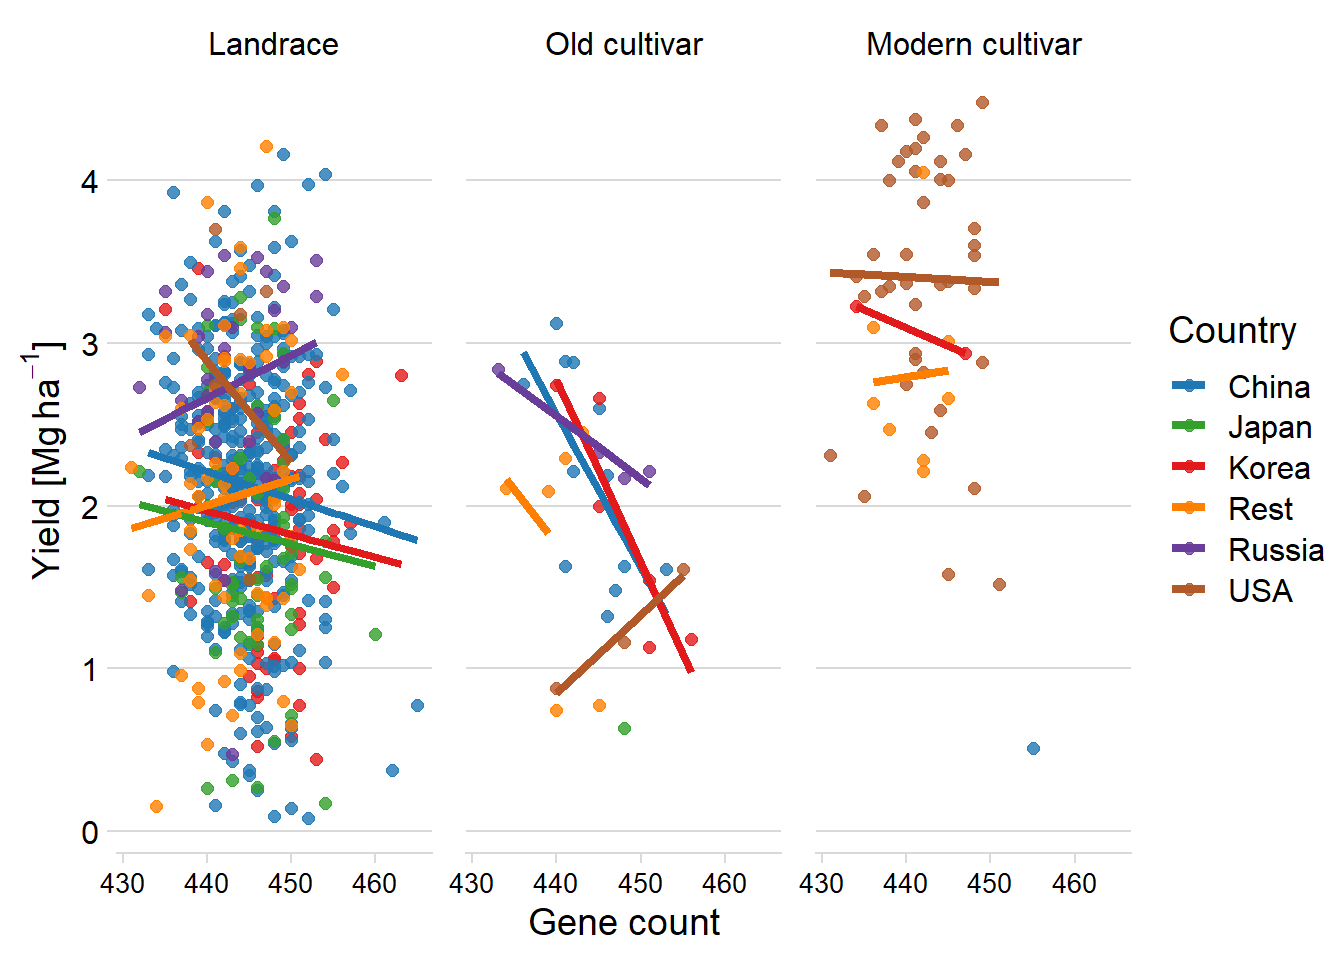
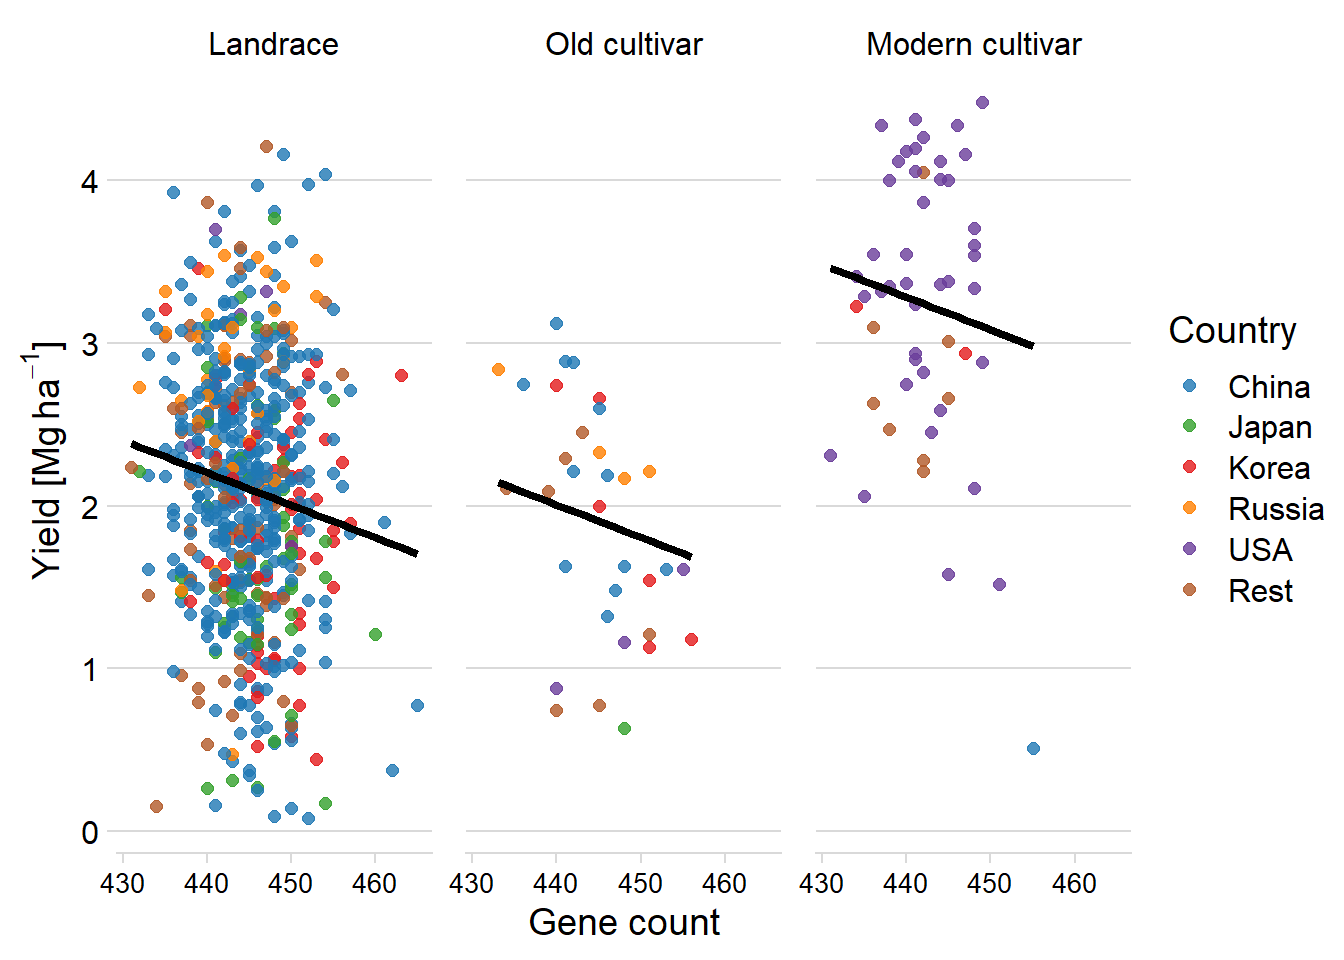
Build site.

diff --git a/docs/yield_lm_link.html b/docs/yield_lm_link.html
@@ -476,16 +476,16 @@ This reproducible <a href="http://rmarkdown.rstudio.com">R Markdown</a> analysis
 <div class="panel panel-default">
 <div class="panel-heading">
 <p class="panel-title">
-<a data-toggle="collapse" data-parent="#workflowr-checks" href="#strongRepositoryversionstrongahrefhttpsgithubcomphilippbayerRgeneanalysistreebda432c301b9937a3f854bee831741e7677c4174targetblankbda432ca"> <span class="glyphicon glyphicon-ok text-success" aria-hidden="true"></span> <strong>Repository version:</strong> <a href="https://github.com/philippbayer/R_gene_analysis/tree/bda432c301b9937a3f854bee831741e7677c4174" target="_blank">bda432c</a> </a>
+<a data-toggle="collapse" data-parent="#workflowr-checks" href="#strongRepositoryversionstrongahrefhttpsgithubcomphilippbayerRgeneanalysistree265efc1435fcc189f12177a8d3681cf9faa424ectargetblank265efc1a"> <span class="glyphicon glyphicon-ok text-success" aria-hidden="true"></span> <strong>Repository version:</strong> <a href="https://github.com/philippbayer/R_gene_analysis/tree/265efc1435fcc189f12177a8d3681cf9faa424ec" target="_blank">265efc1</a> </a>
 </p>
 </div>
[2 lines of base64/hex data omitted]
 <div class="panel-body">
 <p>
 Great! You are using Git for version control. Tracking code development and connecting the code version to the results is critical for reproducibility.
 </p>
 <p>
-The results in this page were generated with repository version <a href="https://github.com/philippbayer/R_gene_analysis/tree/bda432c301b9937a3f854bee831741e7677c4174" target="_blank">bda432c</a>. See the <em>Past versions</em> tab to see a history of the changes made to the R Markdown and HTML files.
+The results in this page were generated with repository version <a href="https://github.com/philippbayer/R_gene_analysis/tree/265efc1435fcc189f12177a8d3681cf9faa424ec" target="_blank">265efc1</a>. See the <em>Past versions</em> tab to see a history of the changes made to the R Markdown and HTML files.
 </p>
 <p>
 Note that you need to be careful to ensure that all relevant files for the analysis have been committed to Git prior to generating the results (you can use <code>wflow_publish</code> or <code>wflow_git_commit</code>). workflowr only checks the R Markdown file, but you know if there are other scripts or data files that it depends on. Below is the status of the Git repository when the results were generated:
@@ -572,6 +572,40 @@ Message
 </tr>
 </thead>
 <tbody>
+<tr>
+<td>
+Rmd
+</td>
+<td>
+<a href="https://github.com/philippbayer/R_gene_analysis/blob/265efc1435fcc189f12177a8d3681cf9faa424ec/analysis/yield_lm_link.Rmd" target="_blank">265efc1</a>
+</td>
+<td>
+Philipp Bayer
+</td>
+<td>
+2021-08-10
+</td>
+<td>
+Add a new figure
+</td>
+</tr>
+<tr>
+<td>
+html
+</td>
+<td>
+<a href="https://rawcdn.githack.com/philippbayer/R_gene_analysis/901040c963d2ad2797ca1874026f1074bc9b9c6a/docs/yield_lm_link.html" target="_blank">901040c</a>
+</td>
+<td>
+Philipp Bayer
+</td>
+<td>
+2021-08-10
+</td>
+<td>
+Build site.
+</td>
+</tr>
 <tr>
 <td>
 Rmd
@@ -1823,30 +1857,74 @@ mycol &lt;- brewer.pal(n = 12, name = &quot;Paired&quot;)[seq(2, 12, 2)]</code><
   axis.text.x = element_text(size = 10)) </code></pre>
 <p><img src="figure/yield_lm_link.Rmd/unnamed-chunk-15-1.png" width="672" style="display: block; margin: auto;" /></p>
 <p>Oh wow, that looks very similar to the lme4 results.</p>
-<pre class="r"><code>plot_model(clm_model, type = &quot;pred&quot;, terms = c(&quot;Count&quot;, &quot;Group&quot;)) +
+<p>By what percentage does the predicted yield change for each group?</p>
+<pre class="r"><code>plot_model(clm_model, type = &quot;pred&quot;, terms = c(&quot;Count&quot;, &quot;Group&quot;))$data</code></pre>
+<pre><code># Predicted values of Yield
+
+# Group = Landrace
+
+Count | Predicted | group_col |       95% CI
+--------------------------------------------
+  430 |      2.37 |  Landrace | [2.19, 2.55]
+  436 |      2.27 |  Landrace | [2.15, 2.39]
+  442 |      2.18 |  Landrace | [2.10, 2.25]
+  448 |      2.08 |  Landrace | [2.00, 2.16]
+  454 |      1.98 |  Landrace | [1.86, 2.11]
+  466 |      1.79 |  Landrace | [1.54, 2.04]
+
+# Group = Old cultivar
+
+Count | Predicted |    group_col |       95% CI
+-----------------------------------------------
+  430 |      2.15 | Old cultivar | [1.83, 2.47]
+  436 |      2.05 | Old cultivar | [1.77, 2.34]
+  442 |      1.96 | Old cultivar | [1.68, 2.23]
+  448 |      1.86 | Old cultivar | [1.59, 2.14]
+  454 |      1.77 | Old cultivar | [1.47, 2.06]
+  466 |      1.57 | Old cultivar | [1.21, 1.94]
+
+# Group = Modern cultivar
+
+Count | Predicted |       group_col |       95% CI
+--------------------------------------------------
+  430 |      3.17 | Modern cultivar | [2.72, 3.62]
+  436 |      3.07 | Modern cultivar | [2.64, 3.50]
+  442 |      2.98 | Modern cultivar | [2.55, 3.40]
+  448 |      2.88 | Modern cultivar | [2.45, 3.31]
+  454 |      2.78 | Modern cultivar | [2.34, 3.23]
+  466 |      2.59 | Modern cultivar | [2.09, 3.09]
+
+Adjusted for:
+* Country = China</code></pre>
+<pre class="r"><code>ranges_pret &lt;- list(land = c(1.79, 2.37), old = c(1.57, 2.15), modern = c(2.59, 3.17))
+sapply(ranges_pret, diff)</code></pre>
+<pre><code>  land    old modern 
+  0.58   0.58   0.58 </code></pre>
+<p>So the effect is around 0.58 per group</p>
+<pre class="r"><code>plot_model(clm_model, type = &quot;pred&quot;, terms = c(&quot;Count&quot;, &quot;Group&quot;), show.data=F) +
   theme_minimal_hgrid() +
   #scale_fill_manual(values = col_list) +
   #scale_color_manual(values = col_list) +
   xlab(&#39;NLR count&#39;) + 
   ylab((expression(paste(&#39;Yield [Mg &#39;, ha^-1, &#39;]&#39;)))) +
   theme(plot.title=element_blank())</code></pre>
-<p><img src="figure/yield_lm_link.Rmd/unnamed-chunk-16-1.png" width="672" style="display: block; margin: auto;" /></p>
+<p><img src="figure/yield_lm_link.Rmd/unnamed-chunk-18-1.png" width="672" style="display: block; margin: auto;" /></p>
 <pre class="r"><code>qqnorm(resid(clm_model))
 qqline(resid(clm_model))</code></pre>
-<p><img src="figure/yield_lm_link.Rmd/unnamed-chunk-17-1.png" width="672" style="display: block; margin: auto;" /></p>
-<pre class="r"><code>plot(resid(clm_model))</code></pre>
-<p><img src="figure/yield_lm_link.Rmd/unnamed-chunk-18-1.png" width="672" style="display: block; margin: auto;" /></p>
-<pre class="r"><code>plot_model(clm_model, show.values = TRUE, value.offset = .3, terms=c(&#39;GroupOld cultivar&#39;, &#39;Count&#39;, &#39;GroupModern cultivar&#39;))</code></pre>
 <p><img src="figure/yield_lm_link.Rmd/unnamed-chunk-19-1.png" width="672" style="display: block; margin: auto;" /></p>
+<pre class="r"><code>plot(resid(clm_model))</code></pre>
+<p><img src="figure/yield_lm_link.Rmd/unnamed-chunk-20-1.png" width="672" style="display: block; margin: auto;" /></p>
+<pre class="r"><code>plot_model(clm_model, show.values = TRUE, value.offset = .3, terms=c(&#39;GroupOld cultivar&#39;, &#39;Count&#39;, &#39;GroupModern cultivar&#39;))</code></pre>
+<p><img src="figure/yield_lm_link.Rmd/unnamed-chunk-21-1.png" width="672" style="display: block; margin: auto;" /></p>
 <p>All terms in the model:</p>
 <pre class="r"><code>plot_model(clm_model, type = &quot;std&quot;, show.values = TRUE, value.offset = .3,)</code></pre>
-<p><img src="figure/yield_lm_link.Rmd/unnamed-chunk-20-1.png" width="768" style="display: block; margin: auto;" /></p>
+<p><img src="figure/yield_lm_link.Rmd/unnamed-chunk-22-1.png" width="768" style="display: block; margin: auto;" /></p>
 <p>Only groups and count:</p>
 <pre class="r"><code>plot_model(clm_model, type = &quot;std&quot;, show.values = TRUE, value.offset = .3,, terms=c(&#39;GroupOld cultivar&#39;, &#39;Count&#39;, &#39;GroupModern cultivar&#39;))</code></pre>
-<p><img src="figure/yield_lm_link.Rmd/unnamed-chunk-21-1.png" width="672" style="display: block; margin: auto;" /></p>
+<p><img src="figure/yield_lm_link.Rmd/unnamed-chunk-23-1.png" width="672" style="display: block; margin: auto;" /></p>
 <p>Only countries and count:</p>
 <pre class="r"><code>plot_model(clm_model, type = &quot;std&quot;, show.values = TRUE, value.offset = .3,, terms=c(names(clm_model$coefficients)[2], names(clm_model$coefficients)[-1:-4]))</code></pre>
-<p><img src="figure/yield_lm_link.Rmd/unnamed-chunk-22-1.png" width="768" style="display: block; margin: auto;" /></p>
+<p><img src="figure/yield_lm_link.Rmd/unnamed-chunk-24-1.png" width="768" style="display: block; margin: auto;" /></p>
 <p>Let’s plot while having no colors for the countries:</p>
 <pre class="r"><code>newdatlm &lt;-cbind(yield_country_nbs_joined_groups, pred = predict(lm_model))</code></pre>
 <pre class="r"><code>newdatlm %&gt;% mutate(
@@ -1877,7 +1955,7 @@ qqline(resid(clm_model))</code></pre>
   labs(color = &quot;Country&quot;) +
   theme(panel.spacing = unit(0.9, &quot;lines&quot;),
   axis.text.x = element_text(size = 10)) </code></pre>
-<p><img src="figure/yield_lm_link.Rmd/unnamed-chunk-24-1.png" width="672" style="display: block; margin: auto;" /></p>
+<p><img src="figure/yield_lm_link.Rmd/unnamed-chunk-26-1.png" width="672" style="display: block; margin: auto;" /></p>
 <p>Let’s use this as figure 1.</p>
 <div id="lets-nest-the-countries-and-run-one-lm-each" class="section level3">
 <h3>Let’s nest the countries and run one lm each</h3>
@@ -1906,7 +1984,7 @@ model_tibble &lt;- tibble(id = names(models), model=models)
 
 plot_models(models, m.labels = names(models), p.shape=TRUE) +
   scale_colour_manual(values = mycol)</code></pre>
-<p><img src="figure/yield_lm_link.Rmd/unnamed-chunk-25-1.png" width="672" style="display: block; margin: auto;" /></p>
+<p><img src="figure/yield_lm_link.Rmd/unnamed-chunk-27-1.png" width="672" style="display: block; margin: auto;" /></p>
 <pre class="r"><code>mymodel &lt;-  function(df) { lm(Yield ~ Count, data=df) }
 
 results &lt;- six_country_table %&gt;% nest(data = -c(Group, Country2)) %&gt;% 
@@ -1934,7 +2012,7 @@ misleading</code></pre>
   labs(color = &quot;Country&quot;) +
   theme(panel.spacing = unit(0.9, &quot;lines&quot;),
   axis.text.x = element_text(size = 10)) </code></pre>
-<p><img src="figure/yield_lm_link.Rmd/unnamed-chunk-26-1.png" width="672" style="display: block; margin: auto;" /></p>
+<p><img src="figure/yield_lm_link.Rmd/unnamed-chunk-28-1.png" width="672" style="display: block; margin: auto;" /></p>
 <pre class="r"><code>six_country_table %&gt;% filter(Country2 == &#39;China&#39;) %&gt;% 
   add_predictions(models$China) %&gt;% 
   ggplot(aes(x = Count, y = pred, color = Country2)) +
@@ -1951,7 +2029,7 @@ misleading</code></pre>
   labs(color = &quot;Country&quot;) +
   theme(panel.spacing = unit(0.9, &quot;lines&quot;),
   axis.text.x = element_text(size = 10)) </code></pre>
-<p><img src="figure/yield_lm_link.Rmd/unnamed-chunk-27-1.png" width="672" style="display: block; margin: auto;" /></p>
+<p><img src="figure/yield_lm_link.Rmd/unnamed-chunk-29-1.png" width="672" style="display: block; margin: auto;" /></p>
 <pre class="r"><code>six_country_table %&gt;% filter(Country2 == &#39;USA&#39;) %&gt;% 
   add_predictions(models$USA) %&gt;% 
   ggplot(aes(x = Count, y = pred, color = Country2)) +
@@ -1968,10 +2046,10 @@ misleading</code></pre>
   labs(color = &quot;Country&quot;) +
   theme(panel.spacing = unit(0.9, &quot;lines&quot;),
   axis.text.x = element_text(size = 10)) </code></pre>
-<p><img src="figure/yield_lm_link.Rmd/unnamed-chunk-28-1.png" width="672" style="display: block; margin: auto;" /></p>
+<p><img src="figure/yield_lm_link.Rmd/unnamed-chunk-30-1.png" width="672" style="display: block; margin: auto;" /></p>
 <pre class="r"><code>single_model &lt;- lm(Yield ~ Count+Group, data = six_country_table)</code></pre>
 <pre class="r"><code>plot_model(single_model, show.values = TRUE,)</code></pre>
-<p><img src="figure/yield_lm_link.Rmd/unnamed-chunk-30-1.png" width="672" style="display: block; margin: auto;" /></p>
+<p><img src="figure/yield_lm_link.Rmd/unnamed-chunk-32-1.png" width="672" style="display: block; margin: auto;" /></p>
 <pre class="r"><code>six_country_table %&gt;% 
   add_predictions(single_model) %&gt;% 
   ggplot(aes(x = Count, y = pred)) +
@@ -1988,7 +2066,7 @@ misleading</code></pre>
   labs(color = &quot;Country&quot;) +
   theme(panel.spacing = unit(0.9, &quot;lines&quot;),
   axis.text.x = element_text(size = 10)) </code></pre>
-<p><img src="figure/yield_lm_link.Rmd/unnamed-chunk-31-1.png" width="672" style="display: block; margin: auto;" /></p>
+<p><img src="figure/yield_lm_link.Rmd/unnamed-chunk-33-1.png" width="672" style="display: block; margin: auto;" /></p>
 </div>
 <div id="finally-lets-make-one-model-per-breeding-group" class="section level3">
 <h3>FINALLY, let’s make one model per breeding group:</h3>
@@ -2014,10 +2092,10 @@ results &lt;- six_country_table %&gt;% nest(data = -c(Group)) %&gt;%
   labs(color = &quot;Country&quot;) +
   theme(panel.spacing = unit(0.9, &quot;lines&quot;),
   axis.text.x = element_text(size = 10)) </code></pre>
-<p><img src="figure/yield_lm_link.Rmd/unnamed-chunk-33-1.png" width="672" style="display: block; margin: auto;" /></p>
+<p><img src="figure/yield_lm_link.Rmd/unnamed-chunk-35-1.png" width="672" style="display: block; margin: auto;" /></p>
 <pre class="r"><code>plot_models(results$model, m.labels = results$Group, p.shape=TRUE) +
   scale_colour_manual(values = mycol)</code></pre>
-<p><img src="figure/yield_lm_link.Rmd/unnamed-chunk-34-1.png" width="672" style="display: block; margin: auto;" /></p>
+<p><img src="figure/yield_lm_link.Rmd/unnamed-chunk-36-1.png" width="672" style="display: block; margin: auto;" /></p>
 <p>As a last check - what happens if I remove outliers from the moderns, do I then get an association?</p>
 <pre class="r"><code>results &lt;- six_country_table %&gt;% filter(!(Group == &#39;Modern cultivar&#39; &amp; Yield &lt; 2)) %&gt;% 
   nest(data = -c(Group)) %&gt;% 
@@ -2042,10 +2120,10 @@ results %&gt;%
   labs(color = &quot;Country&quot;) +
   theme(panel.spacing = unit(0.9, &quot;lines&quot;),
   axis.text.x = element_text(size = 10)) </code></pre>
-<p><img src="figure/yield_lm_link.Rmd/unnamed-chunk-35-1.png" width="672" style="display: block; margin: auto;" /></p>
+<p><img src="figure/yield_lm_link.Rmd/unnamed-chunk-37-1.png" width="672" style="display: block; margin: auto;" /></p>
 <pre class="r"><code>plot_models(results$model, m.labels = results$Group, p.shape=TRUE) +
   scale_colour_manual(values = mycol)</code></pre>
-<p><img src="figure/yield_lm_link.Rmd/unnamed-chunk-36-1.png" width="672" style="display: block; margin: auto;" /></p>
+<p><img src="figure/yield_lm_link.Rmd/unnamed-chunk-38-1.png" width="672" style="display: block; margin: auto;" /></p>
 <pre class="r"><code>results &lt;- six_country_table %&gt;% filter(Group == &#39;Modern cultivar&#39; &amp; Yield &gt;2) %&gt;% 
   nest(data = -c(Group)) %&gt;% 
   mutate(model = map(data, mymodel)) %&gt;% 
@@ -2069,7 +2147,7 @@ results %&gt;%
   labs(color = &quot;Country&quot;) +
   theme(panel.spacing = unit(0.9, &quot;lines&quot;),
   axis.text.x = element_text(size = 10))</code></pre>
-<p><img src="figure/yield_lm_link.Rmd/unnamed-chunk-37-1.png" width="672" style="display: block; margin: auto;" /></p>
+<p><img src="figure/yield_lm_link.Rmd/unnamed-chunk-39-1.png" width="672" style="display: block; margin: auto;" /></p>
 </div>
 </div>
 <div id="protein-1" class="section level2">
@@ -4924,7 +5002,7 @@ R<sup>2</sup> / R<sup>2</sup> adjusted
   labs(color = &quot;Country&quot;) +
   theme(panel.spacing = unit(0.9, &quot;lines&quot;),
   axis.text.x = element_text(size = 10))</code></pre>
-<p><img src="figure/yield_lm_link.Rmd/unnamed-chunk-52-1.png" width="672" style="display: block; margin: auto;" /></p>
+<p><img src="figure/yield_lm_link.Rmd/unnamed-chunk-54-1.png" width="672" style="display: block; margin: auto;" /></p>
 </div>
 <div id="continents-not-countries" class="section level2">
 <h2>Continents, not countries</h2>
@@ -4983,7 +5061,7 @@ newdat &lt;- cbind(yield_country_nbs_joined_groups_nonacont, pred = predict(clm)
   labs(color = &quot;Continent&quot;) +
   theme(panel.spacing = unit(0.9, &quot;lines&quot;),
   axis.text.x = element_text(size = 10))</code></pre>
-<p><img src="figure/yield_lm_link.Rmd/unnamed-chunk-56-1.png" width="672" style="display: block; margin: auto;" /></p>
+<p><img src="figure/yield_lm_link.Rmd/unnamed-chunk-58-1.png" width="672" style="display: block; margin: auto;" /></p>
 </div>
 <div id="finally-a-regression-by-continent" class="section level2">
 <h2>Finally, a regression by continent</h2>
@@ -5035,13 +5113,13 @@ newdat &lt;- cbind(yield_country_nbs_joined_groups_nonacont, pred = predict(clm)
 <p>I have no idea how to use standard facet_wrap with this.</p>
 <pre class="r"><code>print(plots$plots)</code></pre>
 <pre><code>[[1]]</code></pre>
-<p><img src="figure/yield_lm_link.Rmd/unnamed-chunk-62-1.png" width="672" style="display: block; margin: auto;" /></p>
+<p><img src="figure/yield_lm_link.Rmd/unnamed-chunk-64-1.png" width="672" style="display: block; margin: auto;" /></p>
 <pre><code>
 [[2]]</code></pre>
-<p><img src="figure/yield_lm_link.Rmd/unnamed-chunk-62-2.png" width="672" style="display: block; margin: auto;" /></p>
+<p><img src="figure/yield_lm_link.Rmd/unnamed-chunk-64-2.png" width="672" style="display: block; margin: auto;" /></p>
 <pre><code>
 [[3]]</code></pre>
-<p><img src="figure/yield_lm_link.Rmd/unnamed-chunk-62-3.png" width="672" style="display: block; margin: auto;" /></p>
+<p><img src="figure/yield_lm_link.Rmd/unnamed-chunk-64-3.png" width="672" style="display: block; margin: auto;" /></p>
 <pre class="r"><code>plots %&gt;% unnest(data) %&gt;% group_by(continent2) %&gt;% 
   do(augment(.$models[[1]]))</code></pre>
 <pre><code># A tibble: 720 x 10
